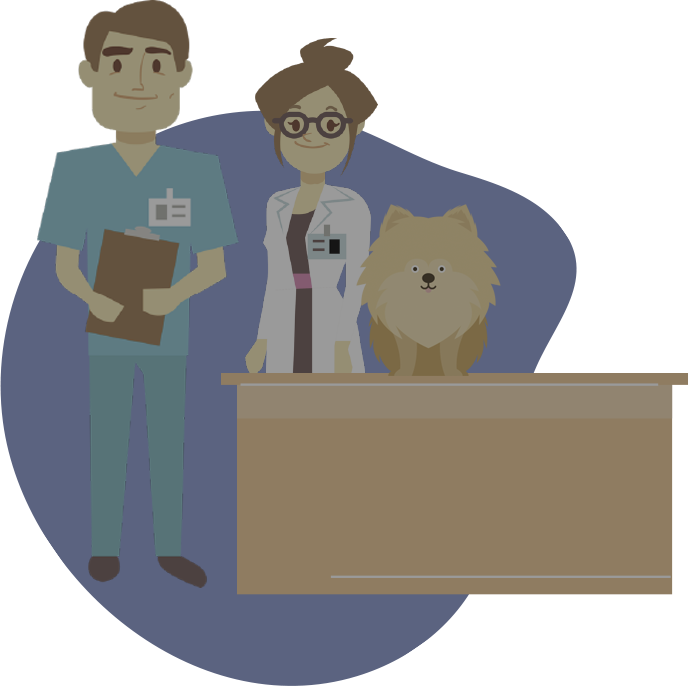
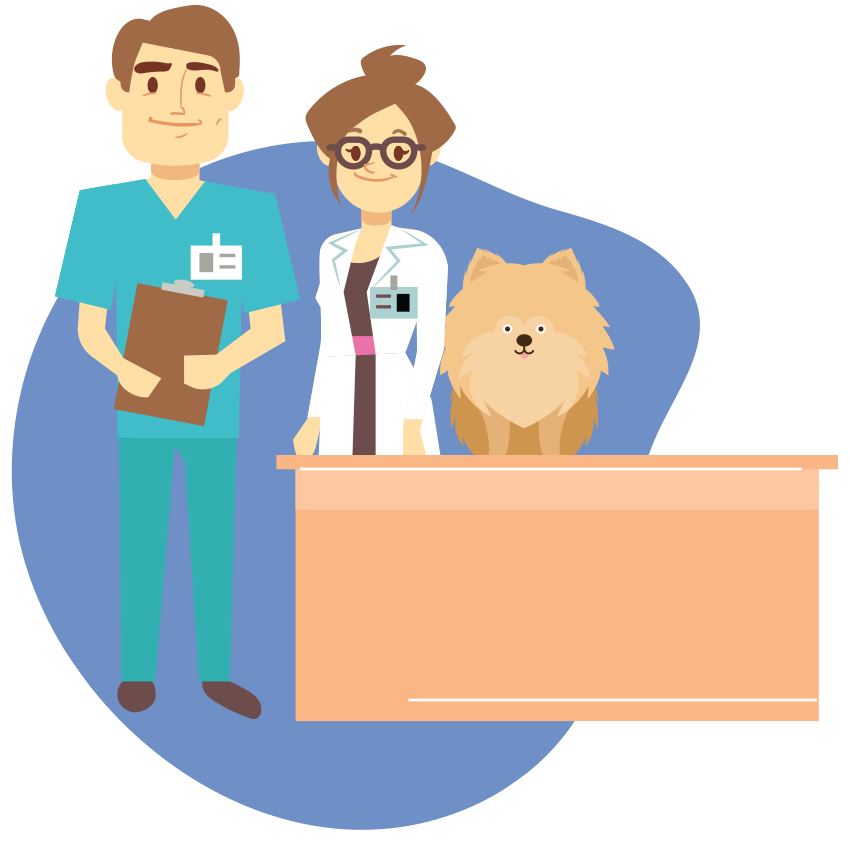
iamge upates

diff --git a/index.html b/index.html
@@ -76,13 +76,13 @@
                     they deserve. </p>
             </div>
             <div class="right-col">
-                <img src="images/aboutpeople.svg" class="people2" />
+                <img src="images/aboutpeople.png" class="people2" />
             </div>
         </div>
     </div>
     <div class="section" id="signingBonus">
         <div class="content-area">
-            <img src="images/signingbonus.svg" class="bonusimg" />
+            <img src="images/signingbonus.png" class="bonusimg" />
             <div class="right">
                 <h3>$50K signing bonus when you sign up with Your Neighbor Vet today!! </h3>
                 <span>FT DVM.</span>
@@ -133,7 +133,7 @@
     <div class="section" id="dvmservices">
         <div class="content-area">
             <div class="left-col">
-                <img src="images/dvmpeople.svg" class="people3" />
+                <img src="images/dvmpeople.png" class="people3" />
             </div>
             <div class="right-col">
                 <h2>DVM<br/> SERVICES</h2>
@@ -154,7 +154,7 @@
                 </div>
             </div>
             <div class="right-col">
-                <img src="images/people4.svg" class="people4" />
+                <img src="images/people4.png" class="people4" />
             </div>
         </div>
     </div>

diff --git a/sass/style.scss b/sass/style.scss
@@ -64,7 +64,7 @@ a {
 .people1 {
     position: absolute;
     right: 450px;
-    width: 340px;
+    width: 450px;
     bottom: 0;
     z-index: 0;
 }
@@ -268,7 +268,7 @@ a {
     .content-area {
         display: grid;
         grid-template-columns: 2fr 1fr;
-        grid-gap: 140px;
+        grid-gap: 0px;
         padding-top: 100px;
         padding-bottom: 100px;
 
@@ -302,7 +302,7 @@ a {
         img {
             position: absolute;
             top: -80px;
-            max-width: 300px;
+            max-width: 340px;
         }
         .right {
             padding-left: 340px;
@@ -753,7 +753,7 @@ a {
         .content-area {
 
             img {
-                max-width: 230px;
+                max-width: 280px;
             }
             .right {
                 padding-left: 240px;

diff --git a/sass/style.css b/sass/style.css
@@ -61,7 +61,7 @@ a:hover {
 .people1 {
   position: absolute;
   right: 450px;
-  width: 340px;
+  width: 450px;
   bottom: 0;
   z-index: 0;
 }
@@ -240,7 +240,7 @@ a:hover {
 #about .content-area {
   display: grid;
   grid-template-columns: 2fr 1fr;
-  grid-gap: 140px;
+  grid-gap: 0px;
   padding-top: 100px;
   padding-bottom: 100px;
 }
@@ -269,7 +269,7 @@ a:hover {
 #signingBonus .content-area img {
   position: absolute;
   top: -80px;
-  max-width: 300px;
+  max-width: 340px;
 }
 #signingBonus .content-area .right {
   padding-left: 340px;
@@ -633,7 +633,7 @@ a:hover {
 }
 @media screen and (max-width: 1100px) {
   #signingBonus .content-area img {
-    max-width: 230px;
+    max-width: 280px;
   }
   #signingBonus .content-area .right {
     padding-left: 240px;
